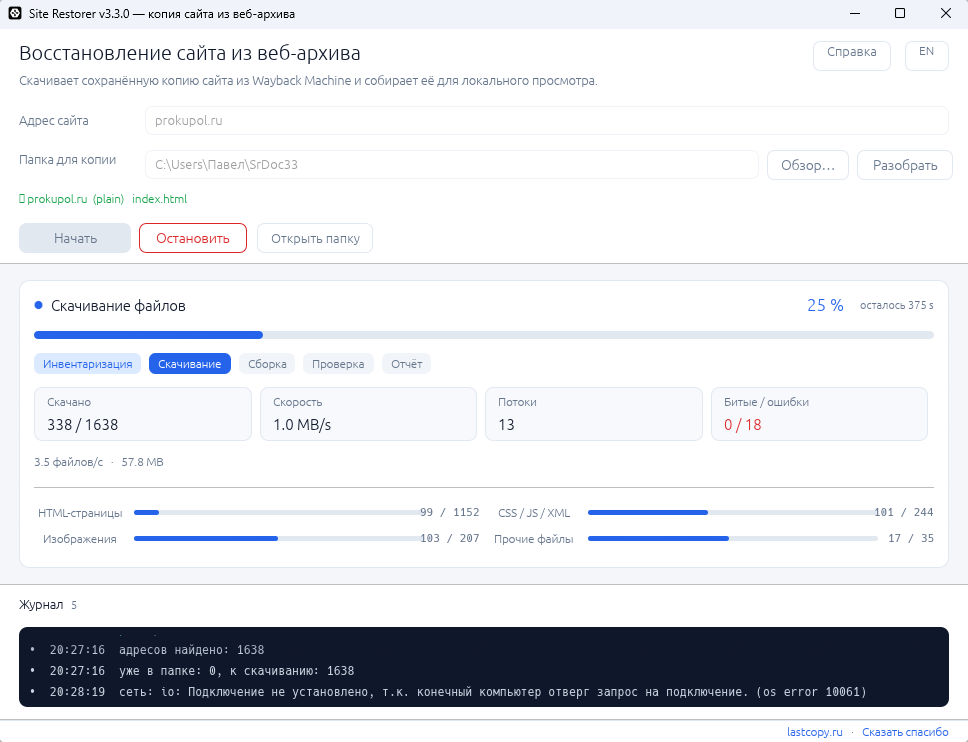
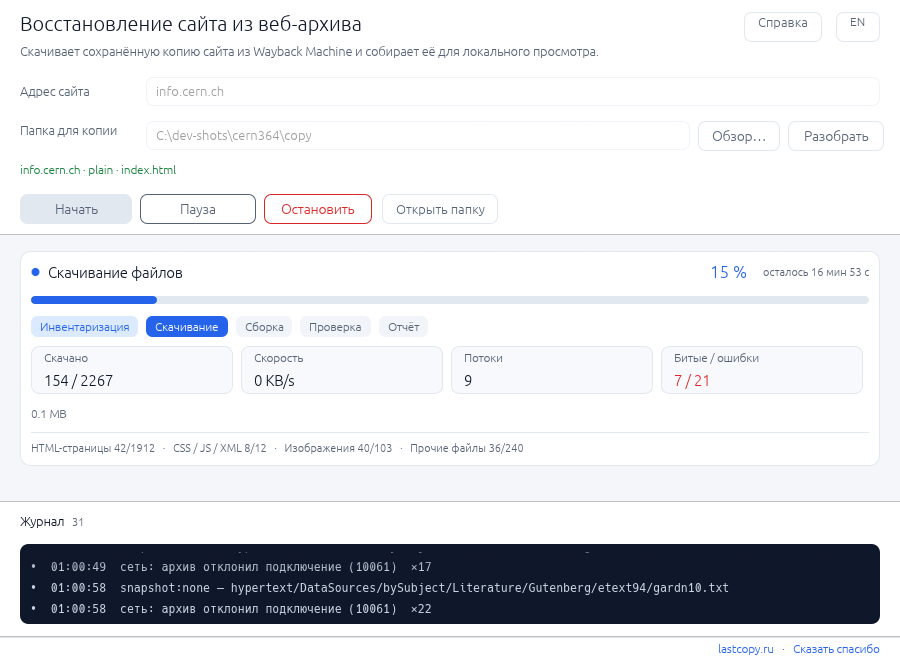
docs(3.6.4): план, ТЗ, README, BUILD и лендинг под выпуск 3.6.4
PLAN 2.26: подраздел 4.6в (Д-113…Д-121), отметка о выпуске 3.6.3,
перенос шести отложенных пунктов в 3.7.0.
ТЗ 2.23: ФТ-164…ФТ-167 (метка паузы, адаптивная карточка, остаток
времени словами, журнал с подсчётом повторов и человеческими причинами).
Снимки окна пересняты на 3.6.4: 01-idle, 02-inventory, 03-download,
04-done (900x660), hero 968x742 на лендинге.
Размеры ассетов приведены к релизу 3.6.4 в README, BUILD и на лендинге.

diff --git a/landing/index.html b/landing/index.html
@@ -510,7 +510,7 @@ python -m http.server 8080</code></pre>
       <div class="dl-grid">
         <article class="dl-card">
           <h3>Site Restorer <span class="chip">x64</span></h3>
-          <p class="dl-meta">Windows 10/11 · 6,2 МБ · основной вариант</p>
+          <p class="dl-meta">Windows 10/11 · 8,8 МБ · основной вариант</p>
           <ul>
             <li><svg viewBox="0 0 24 24" fill="none" stroke="currentColor" stroke-width="2" stroke-linecap="round" stroke-linejoin="round" aria-hidden="true"><path d="M20 6 9 17l-5-5"/></svg><span>Для 64-битных Windows 10 (1809+) и Windows 11</span></li>
             <li><svg viewBox="0 0 24 24" fill="none" stroke="currentColor" stroke-width="2" stroke-linecap="round" stroke-linejoin="round" aria-hidden="true"><path d="M20 6 9 17l-5-5"/></svg><span>Портативно: распаковать в папку и запустить</span></li>
@@ -538,7 +538,7 @@ python -m http.server 8080</code></pre>
 
         <article class="dl-card">
           <h3>Site Restorer <span class="chip">Linux</span></h3>
-          <p class="dl-meta">Ubuntu / Debian · 4,5 МБ · окно + консоль</p>
+          <p class="dl-meta">Ubuntu / Debian · 12,3 МБ · окно + консоль</p>
           <ul>
             <li><svg viewBox="0 0 24 24" fill="none" stroke="currentColor" stroke-width="2" stroke-linecap="round" stroke-linejoin="round" aria-hidden="true"><path d="M20 6 9 17l-5-5"/></svg><span>Консольная сборка (статическая) и окно в одном архиве</span></li>
             <li><svg viewBox="0 0 24 24" fill="none" stroke="currentColor" stroke-width="2" stroke-linecap="round" stroke-linejoin="round" aria-hidden="true"><path d="M20 6 9 17l-5-5"/></svg><span>install.sh, .desktop и иконка — установка в ~/.local</span></li>

diff --git a/landing/en/index.html b/landing/en/index.html
@@ -509,7 +509,7 @@ python -m http.server 8080</code></pre>
       <div class="dl-grid">
         <article class="dl-card">
           <h3>Site Restorer <span class="chip">x64</span></h3>
-          <p class="dl-meta">Windows 10/11 · 6.2 MB · the main build</p>
+          <p class="dl-meta">Windows 10/11 · 8.8 MB · the main build</p>
           <ul>
             <li><svg viewBox="0 0 24 24" fill="none" stroke="currentColor" stroke-width="2" stroke-linecap="round" stroke-linejoin="round" aria-hidden="true"><path d="M20 6 9 17l-5-5"/></svg><span>For 64-bit Windows 10 (1809+) and Windows 11</span></li>
             <li><svg viewBox="0 0 24 24" fill="none" stroke="currentColor" stroke-width="2" stroke-linecap="round" stroke-linejoin="round" aria-hidden="true"><path d="M20 6 9 17l-5-5"/></svg><span>Portable: unpack into a folder and run</span></li>
@@ -537,7 +537,7 @@ python -m http.server 8080</code></pre>
 
         <article class="dl-card">
           <h3>Site Restorer <span class="chip">Linux</span></h3>
-          <p class="dl-meta">Ubuntu / Debian · 4.5 MB · GUI + CLI</p>
+          <p class="dl-meta">Ubuntu / Debian · 12.3 MB · GUI + CLI</p>
           <ul>
             <li><svg viewBox="0 0 24 24" fill="none" stroke="currentColor" stroke-width="2" stroke-linecap="round" stroke-linejoin="round" aria-hidden="true"><path d="M20 6 9 17l-5-5"/></svg><span>Static CLI build and the GUI in one archive</span></li>
             <li><svg viewBox="0 0 24 24" fill="none" stroke="currentColor" stroke-width="2" stroke-linecap="round" stroke-linejoin="round" aria-hidden="true"><path d="M20 6 9 17l-5-5"/></svg><span>install.sh, .desktop and icon — installs to ~/.local</span></li>

diff --git a/TZ.md b/TZ.md
@@ -3,7 +3,7 @@
 | Поле | Значение |
 |---|---|
 | Обозначение | ТЗ SR-1 |
-| Версия документа | 2.22 |
+| Версия документа | 2.23 |
 | Дата | 14.11.2026 |
 | Объект | Программное средство «Site Restorer» — настольное приложение с командной строкой для восстановления сайта из веб-архива |
 | Стадия | Разработка версии 3.x |
@@ -470,6 +470,11 @@
 | ФТ-161 | Пустой список адресов при известной оценке объёма (одна страница) и без фильтров по времени трактуется как «страниц нет»: постраничный обход не запускается, ошибка приходит сразу | Обращение к домену, которого нет в архиве: сообщение об отсутствии страниц, код возврата 1, время до ошибки — без минут ожидания | Ожидание не более одной попытки запроса; в журнале нет строк постраничного обхода |
 | ФТ-162 | Состояние «выполнено с ошибками» отличается от полного успеха: подпись и цвет точки статуса меняются, если при завершении есть ошибки загрузки | Прогон с ошибками: подпись «Готово, с замечаниями», точка янтарная; без ошибок — «Готово», зелёная | Снимок окна после прогона с ошибками и без них |
 | ФТ-163 | Журнал окна показывает записи целиком: длинные строки переносятся, список автоматически прокручивается к последней записи | Строка итога с путём к отчёту видна полностью; после 200+ записей окно стоит на последней | Снимок окна после длинного прогона: путь к отчёту читается, видны свежие записи |
+| ФТ-164 | При паузе карточка прогресса показывает это состояние: янтарная точка статуса и метка «Пауза» рядом с процентом | Нажата «Пауза»: состояние отличается от работающего без чтения журнала | Снимок окна в паузе: метка и цвет точки видны, подпись кнопки — «Продолжить» |
+| ФТ-165 | Карточка прогресса приспосабливается к высоте окна: блоки включаются по доступной высоте, ни один не срезается кромкой; при высоком окне карточка не растягивается пустотой | Окна 760×560, 900×660, 1 180×860: все показанные блоки видны целиком | Снимки трёх размеров: обрезки и пустых полос внутри карточки нет |
+| ФТ-166 | Остаток времени показывается в часах и минутах со словами по языку окна («12 мин 47 с»), а не в секундах с латинской «s» | Прогон длиннее минуты в русском окне | В карточке — «N мин MM с» / «N ч MM мин»; в английском — h/min/s |
+| ФТ-167 | Журнал считает одинаковые записи подряд (×N) и объясняет сетевые ошибки по-русски/по-английски, сохраняя код в скобках; служебные метки вида `rescue:` в журнал не попадают | Прогон с массовыми отказами архива | Одинаковые строки схлопнуты со счётчиком; причина словами; неизвестная ошибка остаётся как есть |
+
 | ФТ-159 | Прекращение 32-битных сборок: сайт и документация указывают последнюю 32-битную версию (3.6.0), ссылка ведёт в её релиз по тегу; проверка ссылок в конвейере сверяет архивные ссылки с их тегом, а не с последним релизом | `scripts/check_downloads.py` зелёный после выпуска без 32-битных файлов; на страницах скачивания нет ссылок `latest` на 32-битные ассеты |
 
 ### 4.3 Требования к надёжности
@@ -840,6 +845,7 @@
 | 2.4 | Ревью релиза 3.2: уточнены ФТ-14 (целостная запись настроек, возврат окна в видимую область), ФТ-89 (файлы в секунду считаются по текущему прогону), ФТ-42 и НД-2 (остановка на всех стадиях, без ожидания пауз повтора) |
 | 2.5 | Требования владельца с высоким приоритетом: номер версии в заголовке окна (ФТ-113), ссылка на сайт продукта (ФТ-114), ссылка «Сказать спасибо» на https://boosty.to/explosion/donate (ФТ-115) — обе в самой нижней полосе окна; введены БЗ-12 (внешние ссылки только по клику), ЭР-11 (вид полосы), ПРМ-13 (проверка версии и ссылок); уточнены ЭК-7 и перечень проверок окна в приложении Г |
 | 2.6 | Релиз 3.3.1: пять исправлений по итогам живого прогона — схемы доступа (основной https, запасной http с запоминанием рабочей), повторы с растущей паузой на инвентаризации, тип содержимого по первым байтам, файл, пришедший вместо страницы, числа файлов копии и зеркала в отчёте и итоге; добавлены ФТ-116 (схемы доступа), ФТ-117 (повторы с растущей паузой на инвентаризации), ФТ-118 (файл вместо страницы), ФТ-119 (числа копии и зеркала), ФТ-120 (имена файлов поставки в сообщениях, справке и документации), НД-11 (отказ архива не уничтожает полученное), ПРМ-14 (картинка под именем страницы не считается страницей), ПРМ-15 (имена файлов против состава релиза); заменены ФТ-43, ФТ-81, ФТ-108 и ПРМ-8; уточнены §3.1, критерий ФТ-101, §8.2 и §8.3; в §1.1 указана версия изделия 3.3.1 и фактические имена файлов поставки. Требование о переходе на незащищённое соединение, снятое в 2.3, возвращается в обратном порядке: основной канал — https, открытый — только запасной при сетевой ошибке |
+| 2.23 | Выпуск 3.6.4 (15.11.2026, `plans/2026-11-visual-testing-363-rufence.md`): добавлены ФТ-164…ФТ-167 — признак паузы в карточке, адаптивная карточка без обрезки на малых размерах окна, остаток времени в часах и минутах, журнал с подсчётом повторов и человеческими причинами сетевых ошибок |
 | 2.22 | Выпуск 3.6.3 (14.11.2026, `plans/2026-11-release-363.md`): добавлены ФТ-160…ФТ-163 — файлы без сжатия передачи, пустой индекс без постраничного обхода, отдельное состояние «выполнено с ошибками», журнал с переносом строк и прокруткой. Уточнена ФТ-116: смена схемы доступа к архиву допускается только при отказе соединения, но не при медленном ответе или таймауте |
 | 2.21 | Разбор длины пути (14.11.2026, `plans/2026-11-dlina-putej-arhiv.md`): уточнена БЗ-6 — предел сегмента задаётся и в символах, и в байтах (имя файла на Linux ограничено 255 байтами); добавлена БЗ-14 — файловые операции выполняются с префиксом длинного пути на Windows, а обход дерева не теряет каталоги молча (число непрочитанных видно в отчёте); уточнена ФТ-45 — причина отказа по длине пути называется с длиной, пределом системы и действием, коды 206 и 36 распознаются |
 | 2.20 | Релиз 3.6.2 (14.11.2026): у ФТ-116 уточнено, что схема доступа и число запросов к архиву видны в итоге и отчёте; в ФТ-111 добавлено требование к сообщению о неверном числовом параметре (имя параметра и ожидаемый тип, код 2 без обращения к сети); в ФТ-117 — пауза из `Retry-After` в форме HTTP-даты с потолком 300 с; в §8.2 добавлен класс дефекта «сбой завершает программу без сообщения и следа» |

diff --git a/PLAN.md b/PLAN.md
@@ -3,7 +3,7 @@
 | Поле | Значение |
 |---|---|
 | Обозначение | ПЛ SR-1 |
-| Версия документа | 2.25 |
+| Версия документа | 2.26 |
 | Дата | 14.11.2026 |
 | Основание | Сверка [DESIGN.md](DESIGN.md) (техническое решение версии 1.7) с [TZ.md](TZ.md) версии 2.19 |
 | Что входит | Всё, что не сделано или сделано частично, с приоритетом и распределением по релизам 3.2–3.8 и 3.6.2 |
@@ -374,7 +374,7 @@
 
 ### 4.6б Релиз 3.6.3 — длинные пути и честный обход
 
-**Выполнено в 3.6.3 (14.11.2026):** Д-19, Д-92, Д-93, Д-103, Д-104, Д-105, Д-106, Д-107,
+**Выпущено 14.11.2026 (тег v3.6.3).** Что вошло: Д-19, Д-92, Д-93, Д-103, Д-104, Д-105, Д-106, Д-107,
 Д-108 (файлы без сжатия), Д-109 (пустой индекс), уточнение Д-97 (схема архива), Д-110…Д-112
 (интерфейс по визуальным тестам). Что сделано и чем проверено — `CHANGELOG.md`, раздел 3.6.3;
 документ задачи — `plans/2026-11-release-363.md`. Приёмка: тесты 122 (GUI) и 119 (CLI),
@@ -422,6 +422,36 @@
 возвращает 0 на путях 260+ символов даже с буфером 32 768 — ограничение самого API, а не нашего
 буфера (замер в `plans/2026-11-dlina-putej-arhiv.md`, §6а.2). До перехода на `IFileOpenDialog` отказ
 диалога нужно показывать сообщением, а не молчанием.
+
+### 4.6в Релиз 3.6.4 — визуальные дефекты оконной сборки
+
+Релиз собран из расширенного визуального тестирования на живом скачивании rufence.ru
+в Windows и Linux (`plans/2026-11-visual-testing-363-rufence.md`): покадровый разбор
+каждого состояния, замеры контраста и геометрии, окна 760×560 / 900×660 / 1 180×860.
+Новых возможностей нет; правятся читаемость состояния прогона и потеря данных на
+малых размерах окна.
+
+**Выпущено 15.11.2026 (тег v3.6.4).** Что сделано и чем проверено — `CHANGELOG.md`,
+раздел 3.6.4. Приёмка: 123/123 и 120/120 тестов, все гейты по нулям, живые прогоны
+rufence.ru (Windows — 4 794 файла, Linux — 3 959 файлов, 5 470/5 470 обработано).
+
+| ID | Доработка и что сделать | Требования ТЗ | Текущее состояние | Критерий готовности | Объём |
+|---|---|---|---|---|---|
+| Д-113 | Карточка прогресса помещается в окно 900×660: сжатие по содержимому, разделитель одной строкой, блок типов одной строкой в низком окне | ФТ-165 | Блок типов уходил за кромку без признака прокрутки | Все четыре типа видны или заменены строкой чисел; обрезки нет | 0,3 дня |
+| Д-114 | Адаптивные блоки карточки по доступной высоте (104 / 50 / 16 / 24 px) | ФТ-165 | В окне 760×560 карточка обрывалась по подписям плиток | Ни один блок не режется кромкой; первыми уходят плашки этапов | 0,3 дня |
+| Д-115 | Карточка не растягивается в высоком окне | ФТ-165 | При 1 180×860 под содержимым оставалось ~250 px пустоты | Карточка заканчивается по содержимому | 0,1 дня |
+| Д-116 | Признак паузы в карточке: янтарная точка и метка «Пауза» рядом с процентом | ФТ-164 | Пауза была видна только в подписи кнопки и в журнале | На снимке паузы состояние отличается от работающего | 0,1 дня |
+| Д-117 | Остаток времени по-человечески: «12 мин 47 с», «1 ч 05 мин» | ФТ-166 | «осталось 909 s» — секунды и латинская s в русском окне | Формат по языку окна, единицы словом | 0,1 дня |
+| Д-118 | Журнал: повтор подряд считается и показывается как «×N» | ФТ-167 | До 500 одинаковых строк вытесняли полезное | Одинаковые записи схлопываются со счётчиком | 0,1 дня |
+| Д-119 | Человеческие причины сетевых ошибок вместо системной строки; код в скобках | ФТ-167 | «Подключение не установлено… (os error 10061)» на Windows, другой текст на Linux | «архив отклонил подключение (10061)»; неизвестная ошибка остаётся как есть | 0,2 дня |
+| | **Д-119а** сообщения добора по ссылкам без машинных меток `rescue:…` | ФТ-167 | В журнале после прогона — `rescue:fail:500`, `rescue: бюджет…` | Только человеческие формулировки | — |
+| Д-120 | Текстовые цвета для мелкого текста: `#15803D` и `#B45309` (5,02:1) | ФТ-114 | Зелёная подсказка 3,30:1, янтарная 3,19:1 при 11,5 px | Контраст ≥ 4,5:1; яркие цвета только для точек статуса | 0,1 дня |
+| Д-121 | Распаковка сжатых ответов своими руками: ureq без gzip, индекс через flate2, файлы копии — как отдал архив | ФТ-160 | ureq разжимал по заголовку ответа даже при запросе `identity`; файлы с чужим `Content-Encoding` терялись («invalid gzip header») | Ошибки gzip нет; индекс разбирается; файл копии побайтово равен отданному | 0,3 дня |
+
+Перенесено в 3.7.0 из визуального теста: расхождение процента этапа и плитки
+«Обработано», подпись «Потоки» без пояснения, единый вид вторичных кнопок, остаточная
+полоса прогресса после остановки, «битых» как вхождения против адресов, схема доступа
+в отчёте при возврате на https.
 
 ### 4.7 Релиз 3.7.0 — интерфейс, платформы и запуск
 

diff --git a/landing/index.md b/landing/index.md
@@ -101,13 +101,13 @@ SiteRestorer-windows-x64.exe --cli --site example.com --out D:\mirror --workers 
 
 ## Скачать
 
-- x64 (GUI, Rust + egui, 6,2 МБ): https://github.com/azxasd69/site-restorer/releases/latest/download/SiteRestorer-windows-x64.exe
+- x64 (GUI, Rust + egui, 8,8 МБ): https://github.com/azxasd69/site-restorer/releases/latest/download/SiteRestorer-windows-x64.exe
 - 32-бит (GUI, 3.6.0, выпуск прекращён): https://github.com/azxasd69/site-restorer/releases/download/v3.6.0/SiteRestorer-windows-x86.exe
-- CLI для Windows x64 (1,8 МБ): https://github.com/azxasd69/site-restorer/releases/latest/download/SiteRestorer-windows-x64-cli.exe
+- CLI для Windows x64 (3,8 МБ): https://github.com/azxasd69/site-restorer/releases/latest/download/SiteRestorer-windows-x64-cli.exe
 - CLI для Windows 32-бит (3.6.0): https://github.com/azxasd69/site-restorer/releases/download/v3.6.0/SiteRestorer-windows-x86-cli.exe
-- CLI для Linux x64 (статический, 2,1 МБ): https://github.com/azxasd69/site-restorer/releases/latest/download/SiteRestorer-linux-x64-cli
-- Linux GUI x64 (7,5 МБ): https://github.com/azxasd69/site-restorer/releases/latest/download/SiteRestorer-linux-x64-gui
-- Пакет для Linux (бинари + install.sh + .desktop, 4,5 МБ): https://github.com/azxasd69/site-restorer/releases/latest/download/SiteRestorer-linux-x64.tar.gz
+- CLI для Linux x64 (статический, 12,2 МБ): https://github.com/azxasd69/site-restorer/releases/latest/download/SiteRestorer-linux-x64-cli
+- Linux GUI x64 (27,2 МБ): https://github.com/azxasd69/site-restorer/releases/latest/download/SiteRestorer-linux-x64-gui
+- Пакет для Linux (бинари + install.sh + .desktop, 12,3 МБ): https://github.com/azxasd69/site-restorer/releases/latest/download/SiteRestorer-linux-x64.tar.gz
 - Контрольные суммы: https://github.com/azxasd69/site-restorer/releases/latest/download/SHA256SUMS.txt
 - Все версии: https://github.com/azxasd69/site-restorer/releases
 

diff --git a/BUILD.md b/BUILD.md
@@ -12,13 +12,13 @@ Python (`legacy/python`) и Go (`ports/go`) переведены в архив: 
 
 | Файл | Платформа | Размер | Что внутри |
 |---|---|---|---|
-| `SiteRestorer-windows-x64.exe` | Windows 10/11 x64 | 7,2 МБ | **основной вариант**: окно egui, RU/EN, статический CRT |
-| `SiteRestorer-windows-x64-cli.exe` | Windows x64 | 2,8 МБ | только командная строка |
-| `SiteRestorer-linux-x64-gui` | Linux x64 | 8,8 МБ | окно egui (нужны системные X11/GL) |
-| `SiteRestorer-linux-x64-cli` | Linux x64 | 3,3 МБ | статический ELF (`ldd` → not a dynamic executable) |
-| `SiteRestorer-linux-x64.tar.gz` | Linux x64 | 5,3 МБ | оба бинарника + `.desktop`, иконка, `install.sh` |
+| `SiteRestorer-windows-x64.exe` | Windows 10/11 x64 | 8,8 МБ | **основной вариант**: окно egui, RU/EN, статический CRT |
+| `SiteRestorer-windows-x64-cli.exe` | Windows x64 | 3,8 МБ | только командная строка |
+| `SiteRestorer-linux-x64-gui` | Linux x64 | 27,2 МБ | окно egui (нужны системные X11/GL) |
+| `SiteRestorer-linux-x64-cli` | Linux x64 | 12,2 МБ | статический ELF (`ldd` → not a dynamic executable) |
+| `SiteRestorer-linux-x64.tar.gz` | Linux x64 | 12,3 МБ | оба бинарника + `.desktop`, иконка, `install.sh` |
 
-Размеры сняты с релиза **v3.6.0** (консольная сборка 3,8 МБ; остальные — с v3.5.2). Имя не содержит версию — ссылки
+Размеры сняты с релиза **v3.6.4** (15.11.2026) — все пять ассетов. Имя не содержит версию — ссылки
 `releases/latest/download/<имя>` постоянны; версию печатает `--version`
 и первая строка журнала окна.
 

diff --git a/landing/en/index.md b/landing/en/index.md
@@ -101,13 +101,13 @@ What did not come back:
 
 ## Download
 
-- x64 GUI (Rust + egui, 6.2 MB): https://github.com/azxasd69/site-restorer/releases/latest/download/SiteRestorer-windows-x64.exe
+- x64 GUI (Rust + egui, 8.8 MB): https://github.com/azxasd69/site-restorer/releases/latest/download/SiteRestorer-windows-x64.exe
 - 32-bit GUI (5.6 MB, 3.6.0, no longer built): https://github.com/azxasd69/site-restorer/releases/download/v3.6.0/SiteRestorer-windows-x86.exe
-- Windows x64 CLI (1.8 MB): https://github.com/azxasd69/site-restorer/releases/latest/download/SiteRestorer-windows-x64-cli.exe
+- Windows x64 CLI (3.8 MB): https://github.com/azxasd69/site-restorer/releases/latest/download/SiteRestorer-windows-x64-cli.exe
 - Windows 32-bit CLI (3.6.0): https://github.com/azxasd69/site-restorer/releases/download/v3.6.0/SiteRestorer-windows-x86-cli.exe
-- Linux x64 CLI, static (2.1 MB): https://github.com/azxasd69/site-restorer/releases/latest/download/SiteRestorer-linux-x64-cli
-- Linux x64 GUI (7.5 MB): https://github.com/azxasd69/site-restorer/releases/latest/download/SiteRestorer-linux-x64-gui
-- Linux package (binaries + install.sh + .desktop, 4.5 MB): https://github.com/azxasd69/site-restorer/releases/latest/download/SiteRestorer-linux-x64.tar.gz
+- Linux x64 CLI, static (12.2 MB): https://github.com/azxasd69/site-restorer/releases/latest/download/SiteRestorer-linux-x64-cli
+- Linux x64 GUI (27.2 MB): https://github.com/azxasd69/site-restorer/releases/latest/download/SiteRestorer-linux-x64-gui
+- Linux package (binaries + install.sh + .desktop, 12.3 MB): https://github.com/azxasd69/site-restorer/releases/latest/download/SiteRestorer-linux-x64.tar.gz
 - Checksums: https://github.com/azxasd69/site-restorer/releases/latest/download/SHA256SUMS.txt
 - All releases: https://github.com/azxasd69/site-restorer/releases
 
